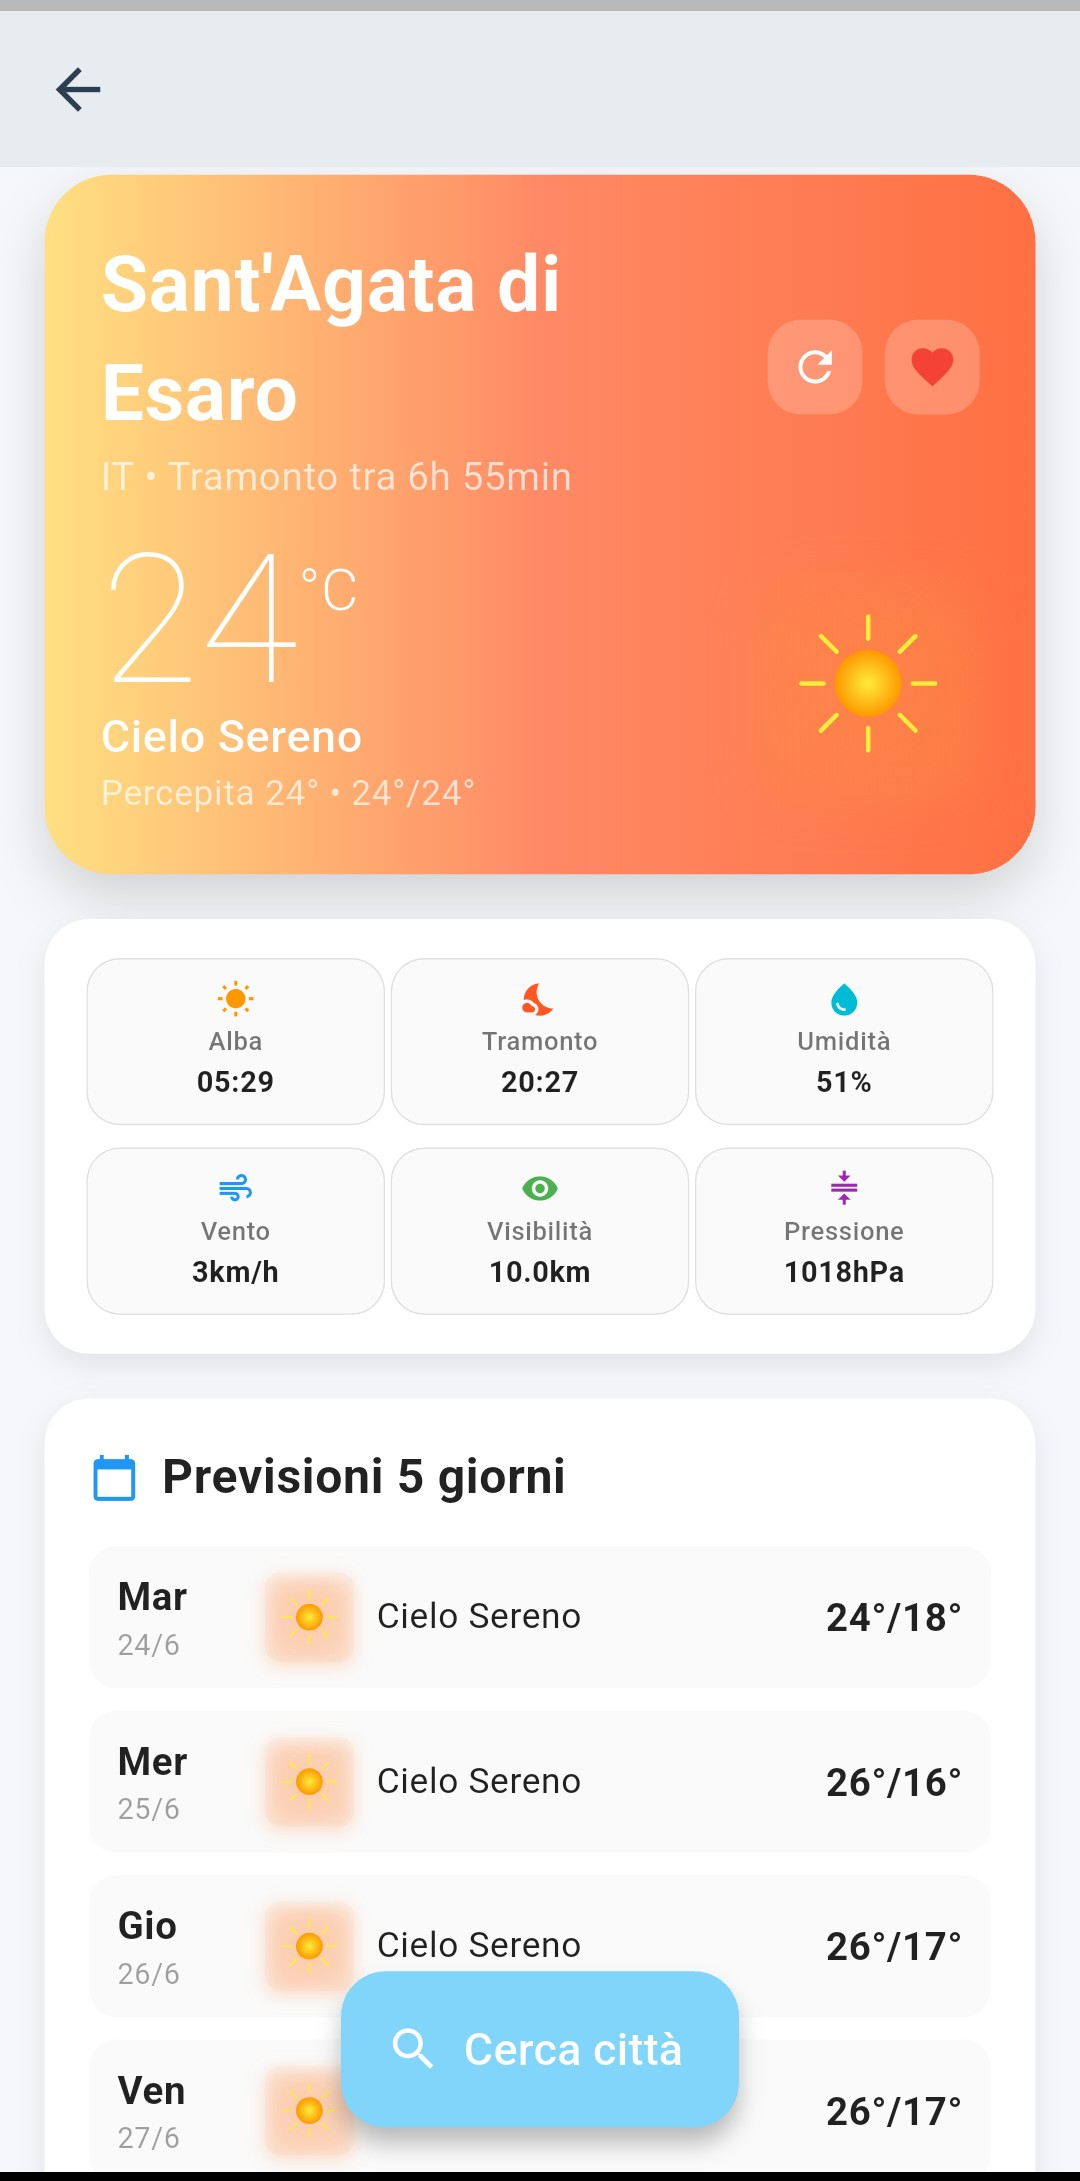
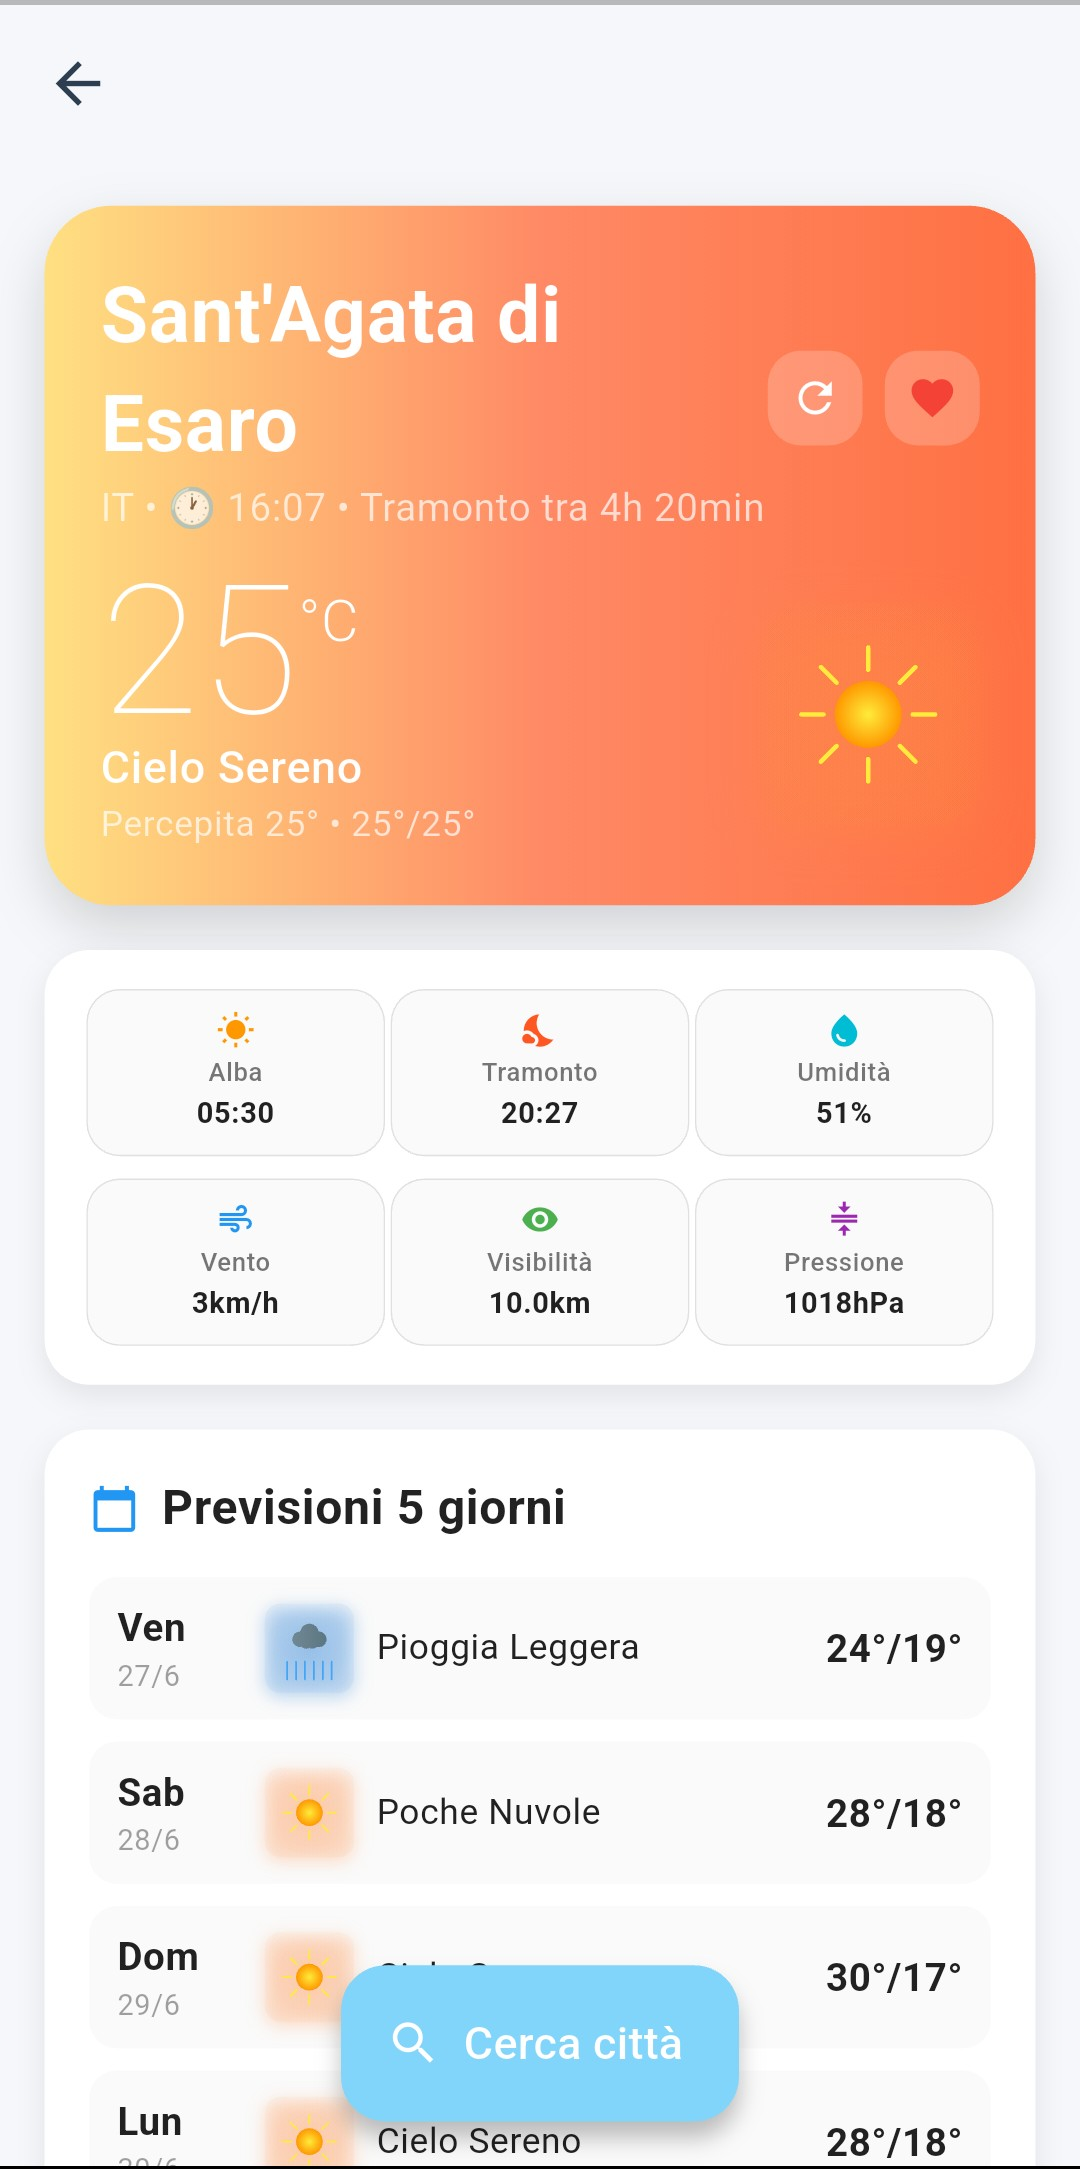
Screnshot aggiornato e alba e tramonto corretta

diff --git a/lib/models/weather_model.dart b/lib/models/weather_model.dart
@@ -26,6 +26,7 @@ class WeatherData {
       icon: json['weather'][0]['icon'], humidity: json['main']['humidity'],
       windSpeed: json['wind']['speed'].toDouble(), pressure: json['main']['pressure'],
       feelsLike: json['main']['feels_like'].toDouble(), timestamp: DateTime.now(),
+      
       sunrise: DateTime.fromMillisecondsSinceEpoch((json['sys']['sunrise'] + timezoneOffset) * 1000, isUtc: true),
       sunset: DateTime.fromMillisecondsSinceEpoch((json['sys']['sunset'] + timezoneOffset) * 1000, isUtc: true),
       lat: json['coord']['lat'].toDouble(), lon: json['coord']['lon'].toDouble(),
@@ -37,30 +38,27 @@ class WeatherData {
   bool get isDayTime {
     final utcNow = DateTime.now().toUtc();
     final cityTime = utcNow.add(Duration(seconds: timezoneOffset));
-    final cityDate = DateTime(cityTime.year, cityTime.month, cityTime.day);
-    final citySunrise = DateTime(cityDate.year, cityDate.month, cityDate.day, sunrise.hour, sunrise.minute);
-    final citySunset = DateTime(cityDate.year, cityDate.month, cityDate.day, sunset.hour, sunset.minute);
-    return cityTime.isAfter(citySunrise) && cityTime.isBefore(citySunset);
+    
+    
+    return cityTime.isAfter(sunrise) && cityTime.isBefore(sunset);
   }
 
   String get daylightInfo {
     final utcNow = DateTime.now().toUtc();
     final cityTime = utcNow.add(Duration(seconds: timezoneOffset));
-    final cityDate = DateTime(cityTime.year, cityTime.month, cityTime.day);
-    final citySunrise = DateTime(cityDate.year, cityDate.month, cityDate.day, sunrise.hour, sunrise.minute);
-    final citySunset = DateTime(cityDate.year, cityDate.month, cityDate.day, sunset.hour, sunset.minute);
     
-    if (cityTime.isBefore(citySunrise)) {
-      return 'Alba tra ${_formatDuration(citySunrise.difference(cityTime))}';
-    } else if (cityTime.isAfter(citySunset)) {
-      final tomorrowSunrise = citySunrise.add(const Duration(days: 1));
+    
+    if (cityTime.isBefore(sunrise)) {
+      return 'Alba tra ${_formatDuration(sunrise.difference(cityTime))}';
+    } else if (cityTime.isAfter(sunset)) {
+      final tomorrowSunrise = sunrise.add(const Duration(days: 1));
       return 'Alba tra ${_formatDuration(tomorrowSunrise.difference(cityTime))}';
     } else {
-      return 'Tramonto tra ${_formatDuration(citySunset.difference(cityTime))}';
+      return 'Tramonto tra ${_formatDuration(sunset.difference(cityTime))}';
     }
   }
 
-  // NUOVA FUNZIONE: Orario attuale della città
+  
   String get oraAttuale {
     final utcNow = DateTime.now().toUtc();
     final cityTime = utcNow.add(Duration(seconds: timezoneOffset));
